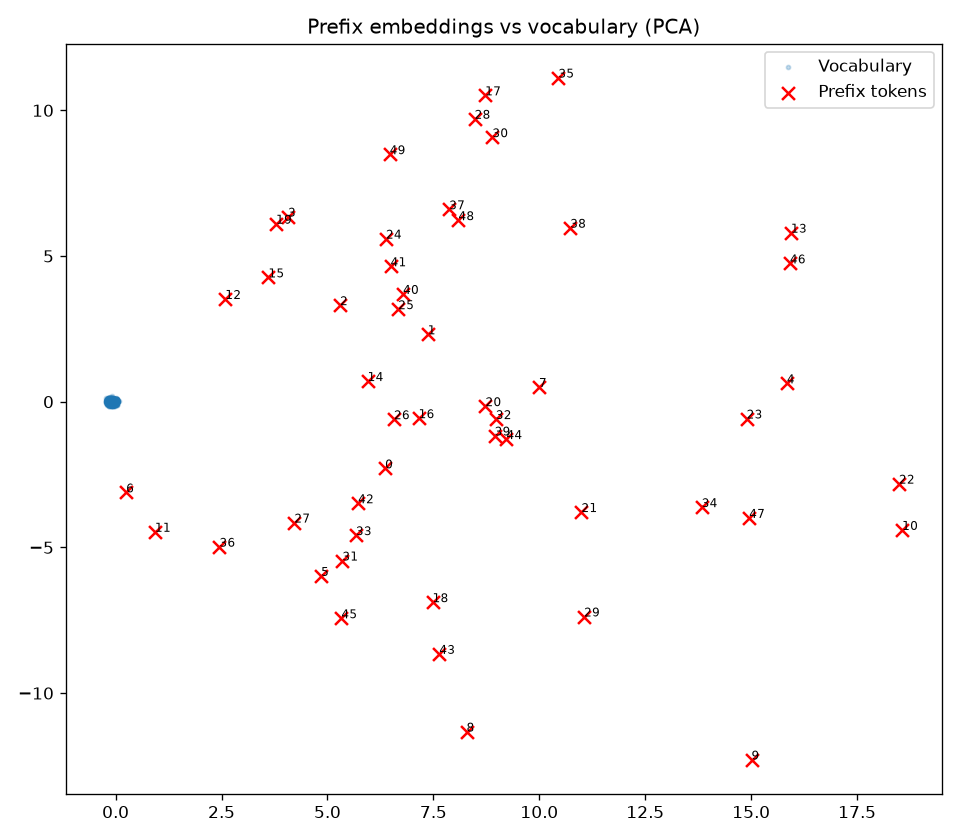
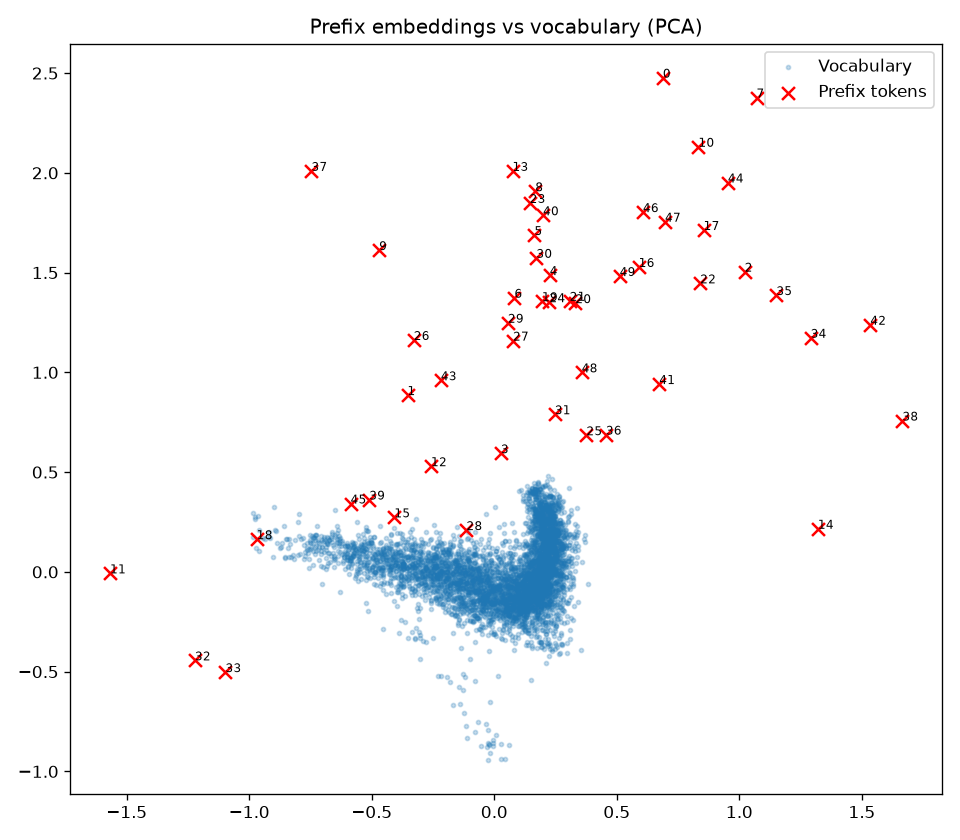
fix pca

diff --git a/prefix_tuning/trainer.py b/prefix_tuning/trainer.py
@@ -8,7 +8,7 @@ from torch.optim import AdamW
 import torch.nn.functional as F
 from typing import List, Dict, Tuple
 from soft_ner_model import NERSoftPromptModel
-from prefix_tuning.prefix_ner_model import NERPrefixTuningModel
+from prefix_ner_model import NERPrefixTuningModel
 from datasets import load_dataset
 from tqdm import tqdm
 from seqeval.metrics import classification_report